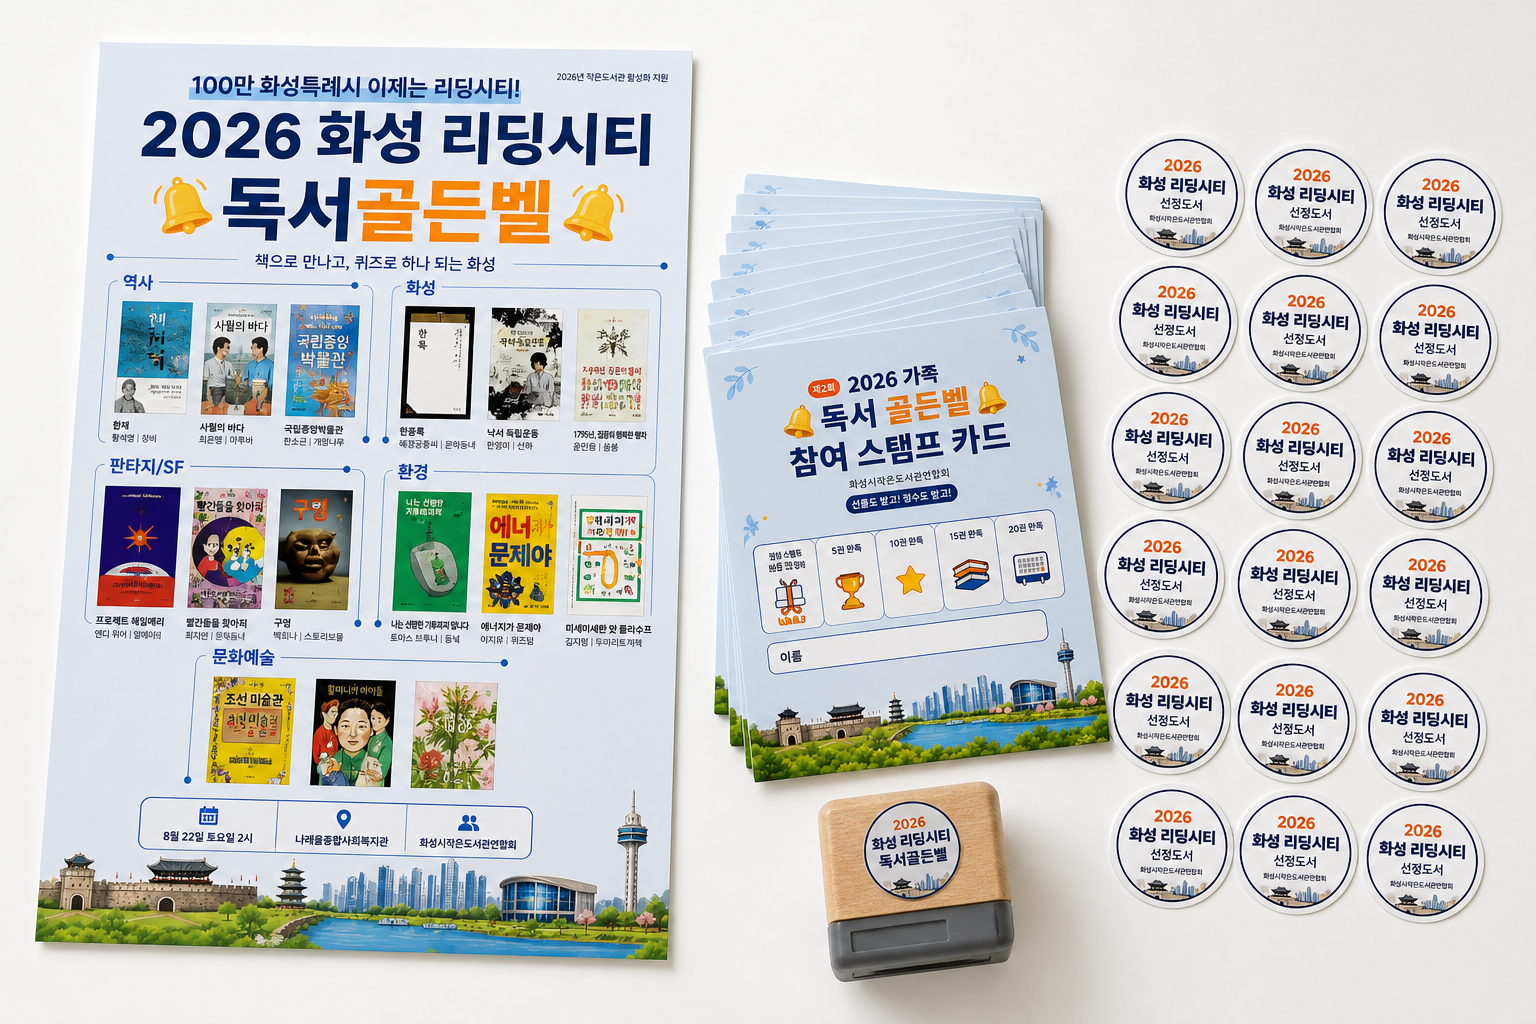
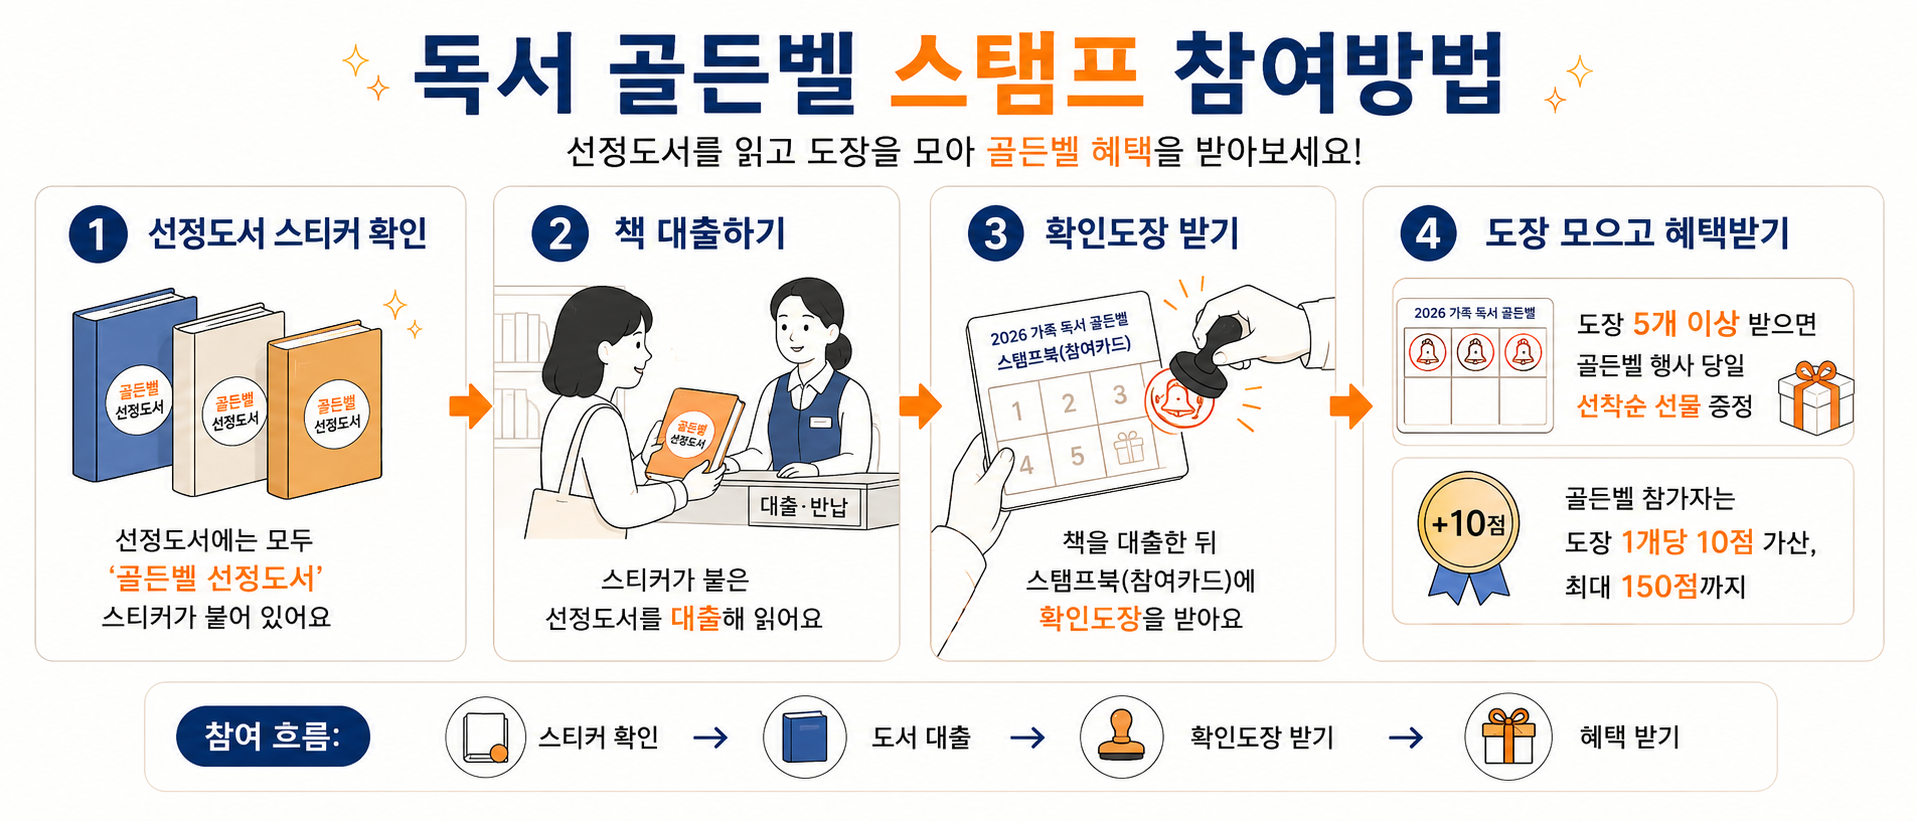
Replace stamp guide image

diff --git a/index.html b/index.html
@@ -144,8 +144,8 @@
         </div>
         <div class="howto-layout">
           <figure class="stamp-kit-figure">
-            <img src="./stamp-kit-photo.png" alt="독서골든벨 스탬프 카드, 도장, 선정도서 스티커 배부 세트">
-            <figcaption>스탬프 카드와 도장으로 독서골든벨 참여를 준비해요.</figcaption>
+            <img src="./stamp-kit-photo.png" alt="독서골든벨 스탬프 참여방법 안내 이미지">
+            <figcaption>선정도서 스티커 확인부터 도장 혜택까지 한눈에 확인할 수 있습니다.</figcaption>
           </figure>
           <div id="howToEnjoy" class="howto-grid"></div>
         </div>

diff --git a/styles.css b/styles.css
@@ -496,7 +496,7 @@ main {
 
 .howto-layout {
   display: grid;
-  grid-template-columns: minmax(280px, 0.9fr) minmax(0, 1.35fr);
+  grid-template-columns: 1fr;
   gap: 22px;
   align-items: stretch;
 }
@@ -513,8 +513,9 @@ main {
 .stamp-kit-figure img {
   display: block;
   width: 100%;
-  height: min(420px, 42vw);
-  object-fit: cover;
+  height: auto;
+  max-height: none;
+  object-fit: contain;
   object-position: center;
   border-radius: 16px;
 }
